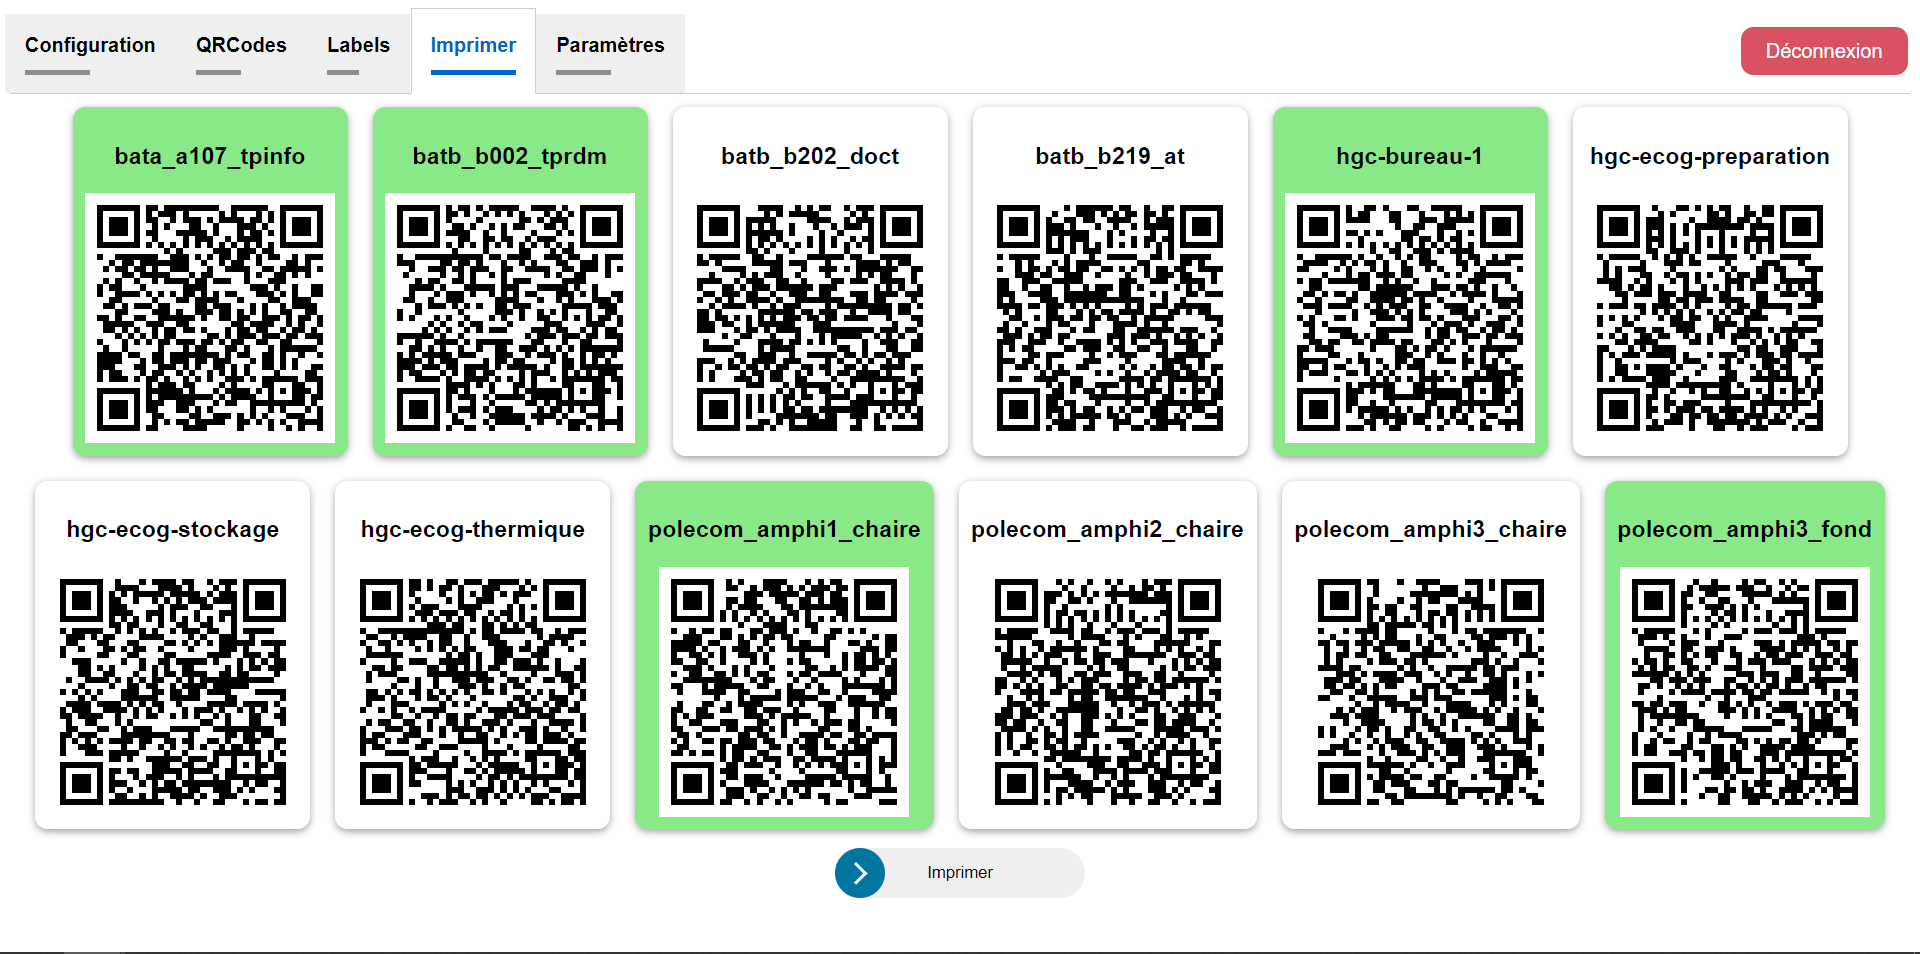
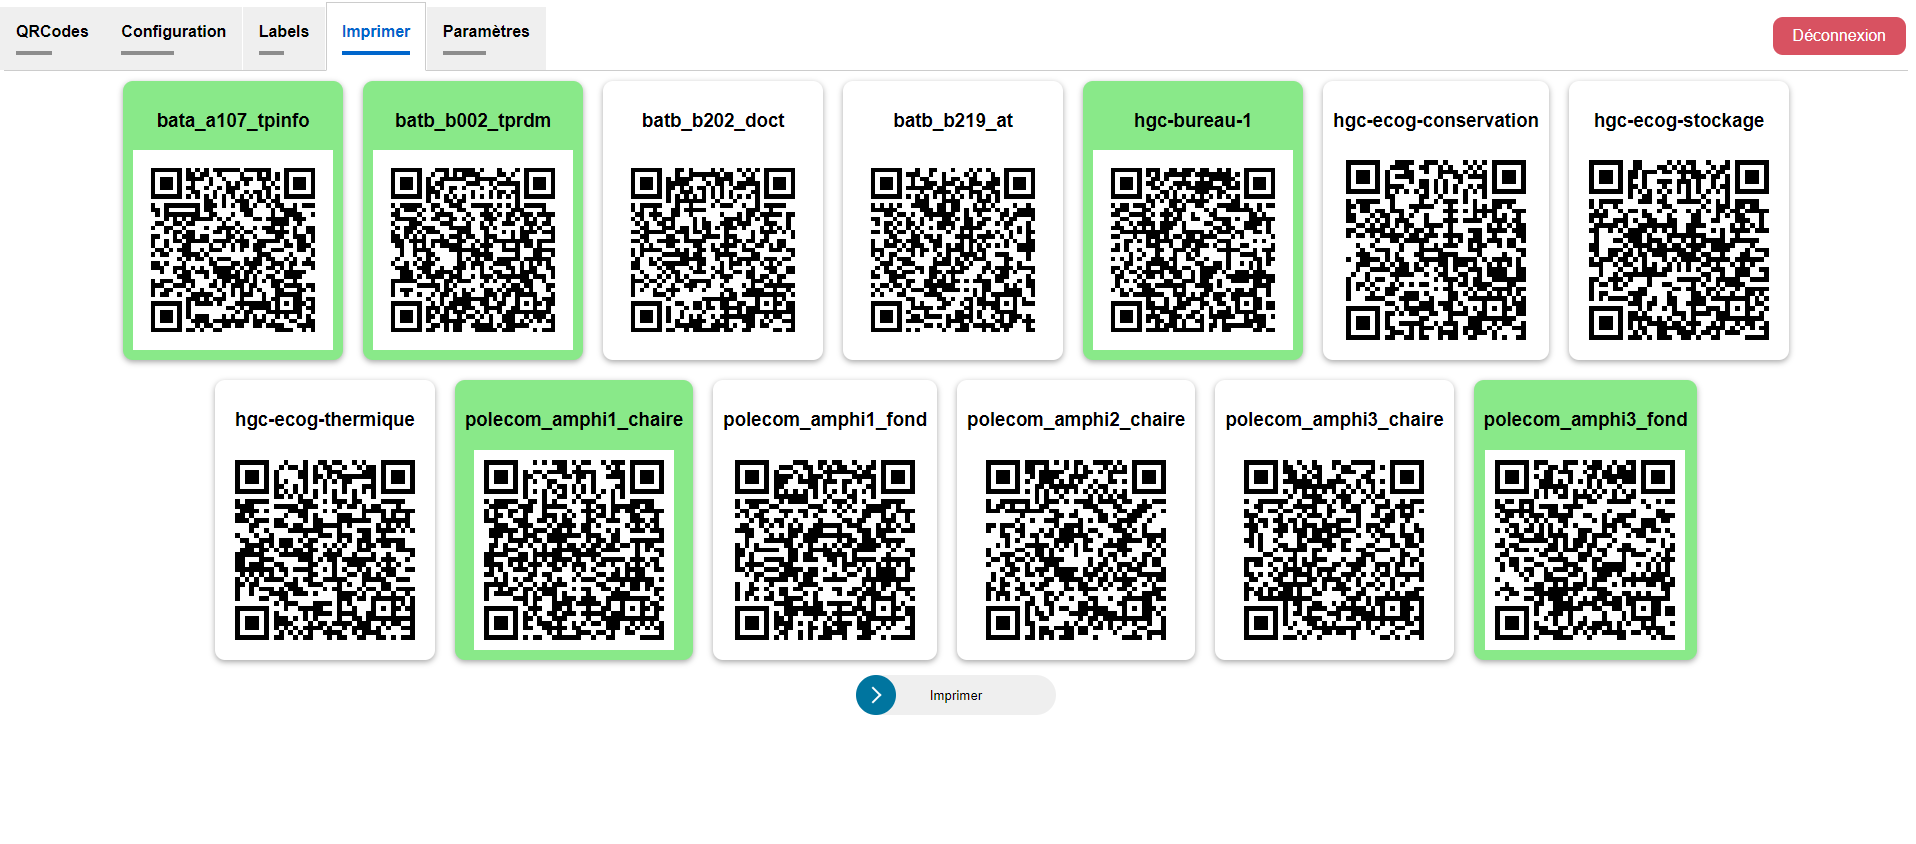
continue: changement dans l'ordre des onglets + adaptation de la doc

diff --git a/src/public/config/script.ts b/src/public/config/script.ts
@@ -185,34 +185,41 @@ function initPrint(qrcodes: { title: string, img: HTMLImageElement }[]): HTMLDiv
 }
 
 /**
+ * Comportement lors du clic sur un onglet
+ * @param tab
+ */
+async function clickOnTab(tab: Element){
+    const nextId = tab.id.split("select-")[1];
+    for(let [key, value] of Object.entries(tabs)) {
+        if(key !== nextId) {
+            if(value.onQuit != null) {
+                await value.onQuit();
+            }
+            value.elements.forEach(hide);
+            value.performOnElements?.forEach(elements => {
+                if(elements.onQuit != null) {
+                    elements.elements.forEach(element => elements.onQuit!(element));
+                }
+            });
+        }
+    }
+    const next = tabs[nextId];
+    if(next.onSelect != null) {
+        await next.onSelect();
+    }
+    next.elements.forEach(show);
+    next.performOnElements?.forEach(elements => {
+        if(elements.onSelect != null) {
+            elements.elements.forEach(element => elements.onSelect!(element));
+        }
+    })}
+
+/**
  * Affichage des différents onglets.
  */
 for(let tab of document.querySelectorAll(".select-page")) {
-    tab.addEventListener("click", async () => {
-        const nextId = tab.id.split("select-")[1];
-        for(let [key, value] of Object.entries(tabs)) {
-            if(key !== nextId) {
-                if(value.onQuit != null) {
-                    await value.onQuit();
-                }
-                value.elements.forEach(hide);
-                value.performOnElements?.forEach(elements => {
-                    if(elements.onQuit != null) {
-                        elements.elements.forEach(element => elements.onQuit!(element));
-                    }
-                });
-            }
-        }
-        const next = tabs[nextId];
-        if(next.onSelect != null) {
-            await next.onSelect();
-        }
-        next.elements.forEach(show);
-        next.performOnElements?.forEach(elements => {
-            if(elements.onSelect != null) {
-                elements.elements.forEach(element => elements.onSelect!(element));
-            }
-        });
+    tab.addEventListener("click", async () => {;
+        clickOnTab(tab);
     })
 }
 
@@ -530,3 +537,8 @@ window.onclick = function(event) {
         closeConfirm();
     }
 }
+
+/**
+ * Chargement de la première page
+ */
+clickOnTab(document.querySelector('#select-qrcode')!);

diff --git a/docs/index.md b/docs/index.md
@@ -21,6 +21,23 @@ Mot de passe par défaut: `admin`.
 
 Cette page est uniquement accessible par authentification.
 Toutes les configurations sont instantanées, il n'y a pas de bouton de validation.
+### Gestion des QRCodes
+
+La configuration des QRCodes se fait sur l'onglet `QRCodes`.  
+![](img/Configuration des QRCodes.png)
+
+La page d'affichage des données n'est en aucun cas accessible si le capteur n'a pas de QRCode associé.  
+La création d'un QRCode se fait via la bouton `Générer`.  
+![](img/Générer%20QRCode.png)
+
+Une fois généré, le QRCode apparaît avec un lien menant directement à la page d'affichage des données.  
+Ce lien et le QRCode redirigent vers la même page.
+Si le besoin de révoquer un QRCode se ressent, c'est-à-dire de le rendre inutilisable, il faut utiliser le bouton `Révoquer`.  
+![](img/Révoquer%20QRCode.png)
+
+Cette action ouvre une fenêtre de confirmation, dans le cas où ce bouton est appuyé par erreur.  
+S'il est révoqué, les QRCodes qui ont été imprimés ne seront plus utilisable.  
+![](img/Confirmer%20la%20révocation.png)
 
 ### Capteurs
 
@@ -47,24 +64,6 @@ Pour configuration les données affichées à l'utilisateur, il suffit de clique
 Un bouton violet signifie que la donnée est affichée, le bouton blanc indiquant l'inverse.  
 Par exemple, le CO2 sera affiché contrairement à l'humidité.  
 ![](img/Configuration%20des%20données.png)
-
-### Configuration des QRCodes
-
-La configuration des QRCodes se fait sur l'onglet `QRCodes`.  
-![](img/Configuration des QRCodes.png)
-
-La page d'affichage des données n'est en aucun cas accessible si le capteur n'a pas de QRCode associé.  
-La création d'un QRCode se fait via la bouton `Générer`.  
-![](img/Générer%20QRCode.png)
-
-Une fois généré, le QRCode apparaît avec un lien menant directement à la page d'affichage des données.  
-Ce lien et le QRCode redirigent vers la même page.
-Si le besoin de révoquer un QRCode se ressent, c'est-à-dire de le rendre inutilisable, il faut utiliser le bouton `Révoquer`.  
-![](img/Révoquer%20QRCode.png)
-
-Cette action ouvre une fenêtre de confirmation, dans le cas où ce bouton est appuyé par erreur.  
-S'il est révoqué, les QRCodes qui ont été imprimés ne seront plus utilisable.  
-![](img/Confirmer%20la%20révocation.png)
 
 ### Labels des données
 
@@ -100,7 +99,8 @@ Ensuite, cliquez sur le bouton `Imprimer`, la fenêtre d'impression du navigateu
 Les QRCodes sont regroupés en deux colonnes et trois lignes, ce qui en donne six par pages.  
 Cette disposition est configurable dans une certaine mesure selon les paramètres d'impression du navigateur.    
 On peut par exemple modifier leur taille ou encore en fusionner les pages.  
-![img.png](img/Impression paramètres.png)
+
+![img.png](img/Impression%20paramètres.png)
 
 ### Paramètres
 
